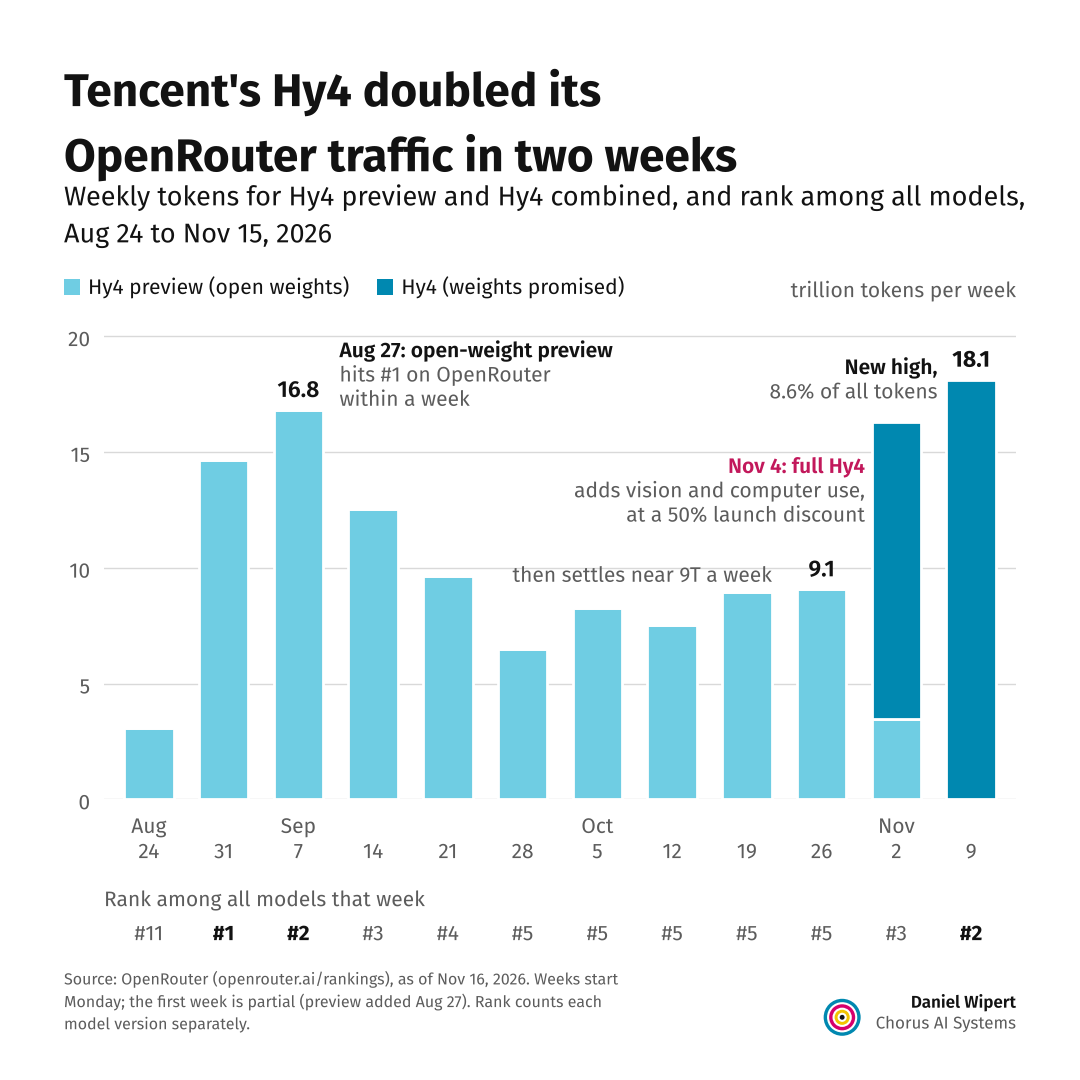
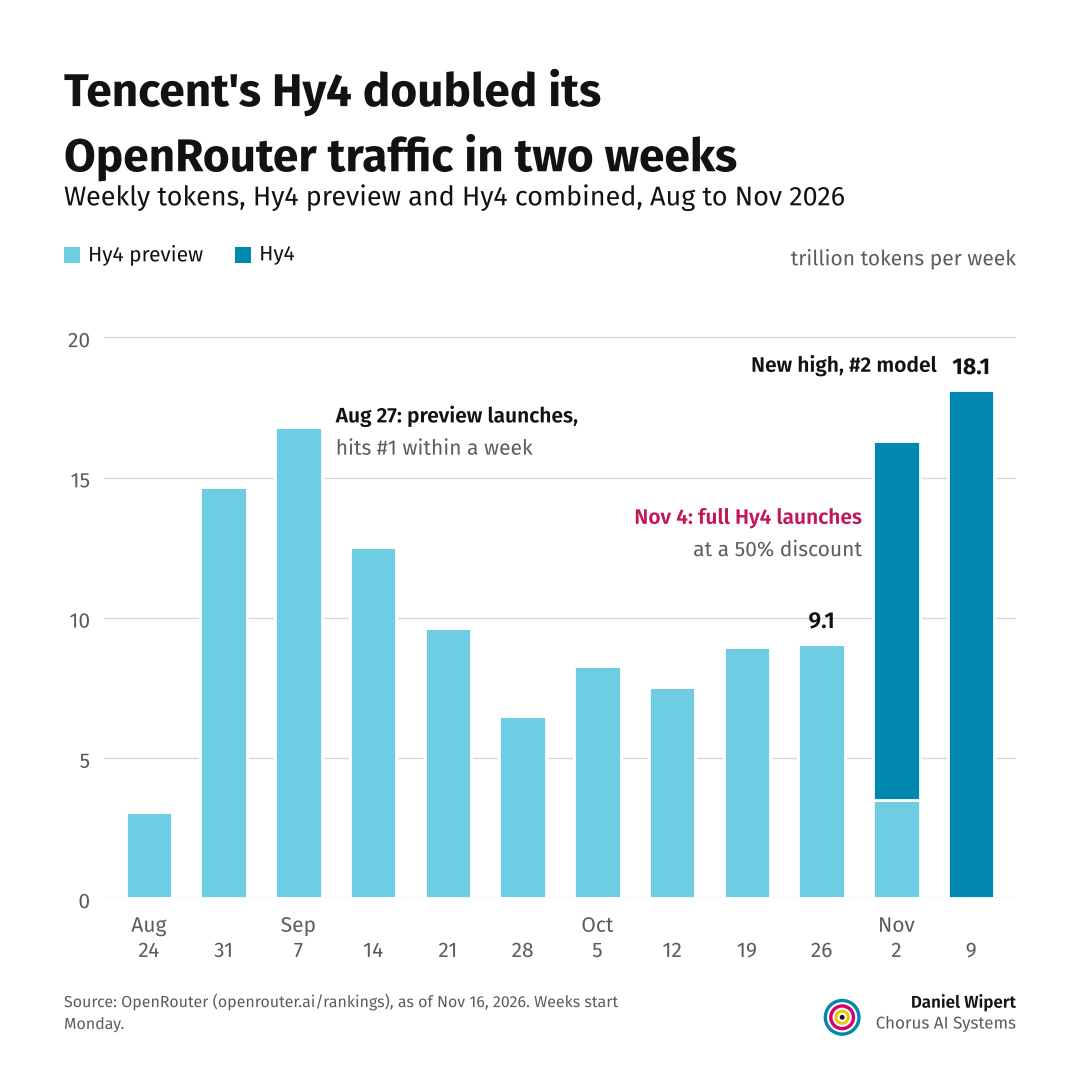
Hy4 chart: less text, more space
Claude-Session: https://claude.ai/code/session_01GhraTmJ773ubGeRJ7du5Yd

diff --git a/specials/hy4_rise.py b/specials/hy4_rise.py
@@ -59,34 +59,31 @@ def main():
 
     frame = Frame(style, "square")
     frame.title("Tencent's Hy4 doubled its OpenRouter traffic in two weeks")
-    frame.subtitle("Weekly tokens for Hy4 preview and Hy4 combined, and rank among "
-                   "all models, Aug 24 to Nov 15, 2026")
+    frame.subtitle("Weekly tokens, Hy4 preview and Hy4 combined, Aug to Nov 2026")
     key_y = frame.cursor
     frame.units("trillion tokens per week")
-    frame.footer("Source: OpenRouter (openrouter.ai/rankings), as of Nov 16, 2026. Weeks start "
-                 "Monday; the first week is partial (preview added Aug 27). Rank counts each "
-                 "model version separately.")
-    ax = frame.chart_area(left_px=40, below_px=150)
+    frame.footer("Source: OpenRouter (openrouter.ai/rankings), as of Nov 16, 2026. "
+                 "Weeks start Monday.")
+    ax = frame.chart_area(left_px=40, below_px=70)
 
     # Key on the units line, left side
     kx = frame.margin["left"]
-    for label, color in [("Hy4 preview (open weights)", c["open"]),
-                         ("Hy4 (weights promised)", c["open_dark"])]:
+    for label, color in [("Hy4 preview", c["open"]), ("Hy4", c["open_dark"])]:
         frame.fig.patches.append(Rectangle(
             (kx / frame.width, (key_y - 19) / frame.height), 16 / frame.width,
             16 / frame.height, transform=frame.fig.transFigure, facecolor=color,
             edgecolor="none"))
         txt = frame.text(kx + 24, key_y - 11, label, "regular", sz["units"], c["text"],
                          va="center")
-        kx += 24 + frame.width_of(txt) + 28
+        kx += 24 + frame.width_of(txt) + 32
 
-    bw = 0.66
+    bw = 0.62
     ax.bar(x, t["preview"], bw, color=c["open"], edgecolor=c["background"], linewidth=2,
            zorder=3)
     ax.bar(x, t["full"], bw, bottom=t["preview"], color=c["open_dark"],
            edgecolor=c["background"], linewidth=2, zorder=3)
 
-    ymax = 21
+    ymax = 22
     ax.set_xlim(-0.6, n - 0.4)
     ax.set_ylim(0, ymax)
     ax.set_yticks([0, 5, 10, 15, 20], ["0", "5", "10", "15", "20"])
@@ -100,56 +97,33 @@ def main():
     ax.grid(axis="y", color=c["grid"], linewidth=1, zorder=0)
     ax.set_axisbelow(True)
 
-    # Rank row under the dates, with its own label; the top-2 weeks in bold
-    ax.text(-0.6, -0.205 * ymax, "Rank among all models that week", ha="left",
-            va="center", color=c["text_muted"], clip_on=False,
-            fontproperties=frame.font("regular", sz["annotation"]))
-    for xi, r in zip(x, t["rank"]):
-        top = r <= 2
-        ax.text(xi, -0.275 * ymax, f"#{r}", ha="center", va="center", clip_on=False,
-                color=c["text"] if top else c["text_muted"],
-                fontproperties=frame.font("bold" if top else "regular", sz["axis"]))
-
-    def value(xi, total, weight="semibold"):
-        ax.text(xi, total + 0.3, f"{total:.1f}", ha="center", va="bottom", color=c["text"],
-                fontproperties=frame.font(weight, sz["bar_value"]), zorder=5)
-
     ann = frame.font("regular", sz["annotation"])
     ann_b = frame.font("semibold", sz["annotation"])
-    lh = 1.05  # annotation line height in data units
+    lh = 1.15  # annotation line height in data units
 
-    # Values on the bars the story is about
-    peak_i = int(np.argmax(t["total"].iloc[:-3]))
+    # The two numbers the title is about
     settled_i = list(t.index).index(pd.Timestamp("2026-10-26"))
-    value(peak_i, t["total"].iloc[peak_i])
-    value(settled_i, settled["total"])
-    value(n - 1, last["total"], "bold")
+    for xi, total, weight in [(settled_i, settled["total"], "semibold"),
+                              (n - 1, last["total"], "bold")]:
+        ax.text(xi, total + 0.35, f"{total:.1f}", ha="center", va="bottom", color=c["text"],
+                fontproperties=frame.font(weight, sz["bar_value"]), zorder=5)
 
-    # Preview launch, beside the first peak
-    tx, ty = peak_i + 0.55, 19.4
-    ax.text(tx, ty, "Aug 27: open-weight preview", ha="left", va="center", color=c["text"],
+    # Preview launch, beside its peak
+    peak_i = int(np.argmax(t["total"].iloc[:-3]))
+    tx, ty = peak_i + 0.5, t["total"].iloc[peak_i] + 0.4
+    ax.text(tx, ty, "Aug 27: preview launches,", ha="left", va="center", color=c["text"],
             fontproperties=ann_b)
-    ax.text(tx, ty - lh, "hits #1 on OpenRouter", ha="left", va="center",
+    ax.text(tx, ty - lh, "hits #1 within a week", ha="left", va="center",
             color=c["text_muted"], fontproperties=ann)
-    ax.text(tx, ty - 2 * lh, "within a week", ha="left", va="center",
-            color=c["text_muted"], fontproperties=ann)
-    # Settles
-    ax.text(6.6, 9.7, "then settles near 9T a week", ha="center", va="center",
-            color=c["text_muted"], fontproperties=ann)
-    # Full release, left of its bar
-    tx, ty = n - 2.42, 14.4
-    ax.text(tx, ty, "Nov 4: full Hy4", ha="right", va="center", color=c["accent"],
+    # Full release, left of its first bar
+    tx, ty = n - 2 - bw / 2 - 0.15, 13.6
+    ax.text(tx, ty, "Nov 4: full Hy4 launches", ha="right", va="center", color=c["accent"],
             fontproperties=ann_b)
-    ax.text(tx, ty - lh, "adds vision and computer use,", ha="right", va="center",
+    ax.text(tx, ty - lh, "at a 50% discount", ha="right", va="center",
             color=c["text_muted"], fontproperties=ann)
-    ax.text(tx, ty - 2 * lh, "at a 50% launch discount", ha="right", va="center",
-            color=c["text_muted"], fontproperties=ann)
-    # Latest week: new high, to the left of its bar
-    left = n - 1 - bw / 2 - 0.12
-    ax.text(left, last["total"] + 0.55, "New high,", ha="right", va="center",
-            color=c["text"], fontproperties=ann_b, zorder=5)
-    ax.text(left, last["total"] - 0.5, f"{last['share'] * 100:.1f}% of all tokens",
-            ha="right", va="center", color=c["text_muted"], fontproperties=ann, zorder=5)
+    # Latest week
+    ax.text(n - 1 - bw / 2 - 0.15, last["total"] + 0.9, "New high, #2 model", ha="right",
+            va="center", color=c["text"], fontproperties=ann_b, zorder=5)
 
     print(t.round(2).to_string())
     print("saved", frame.save(OUT))
